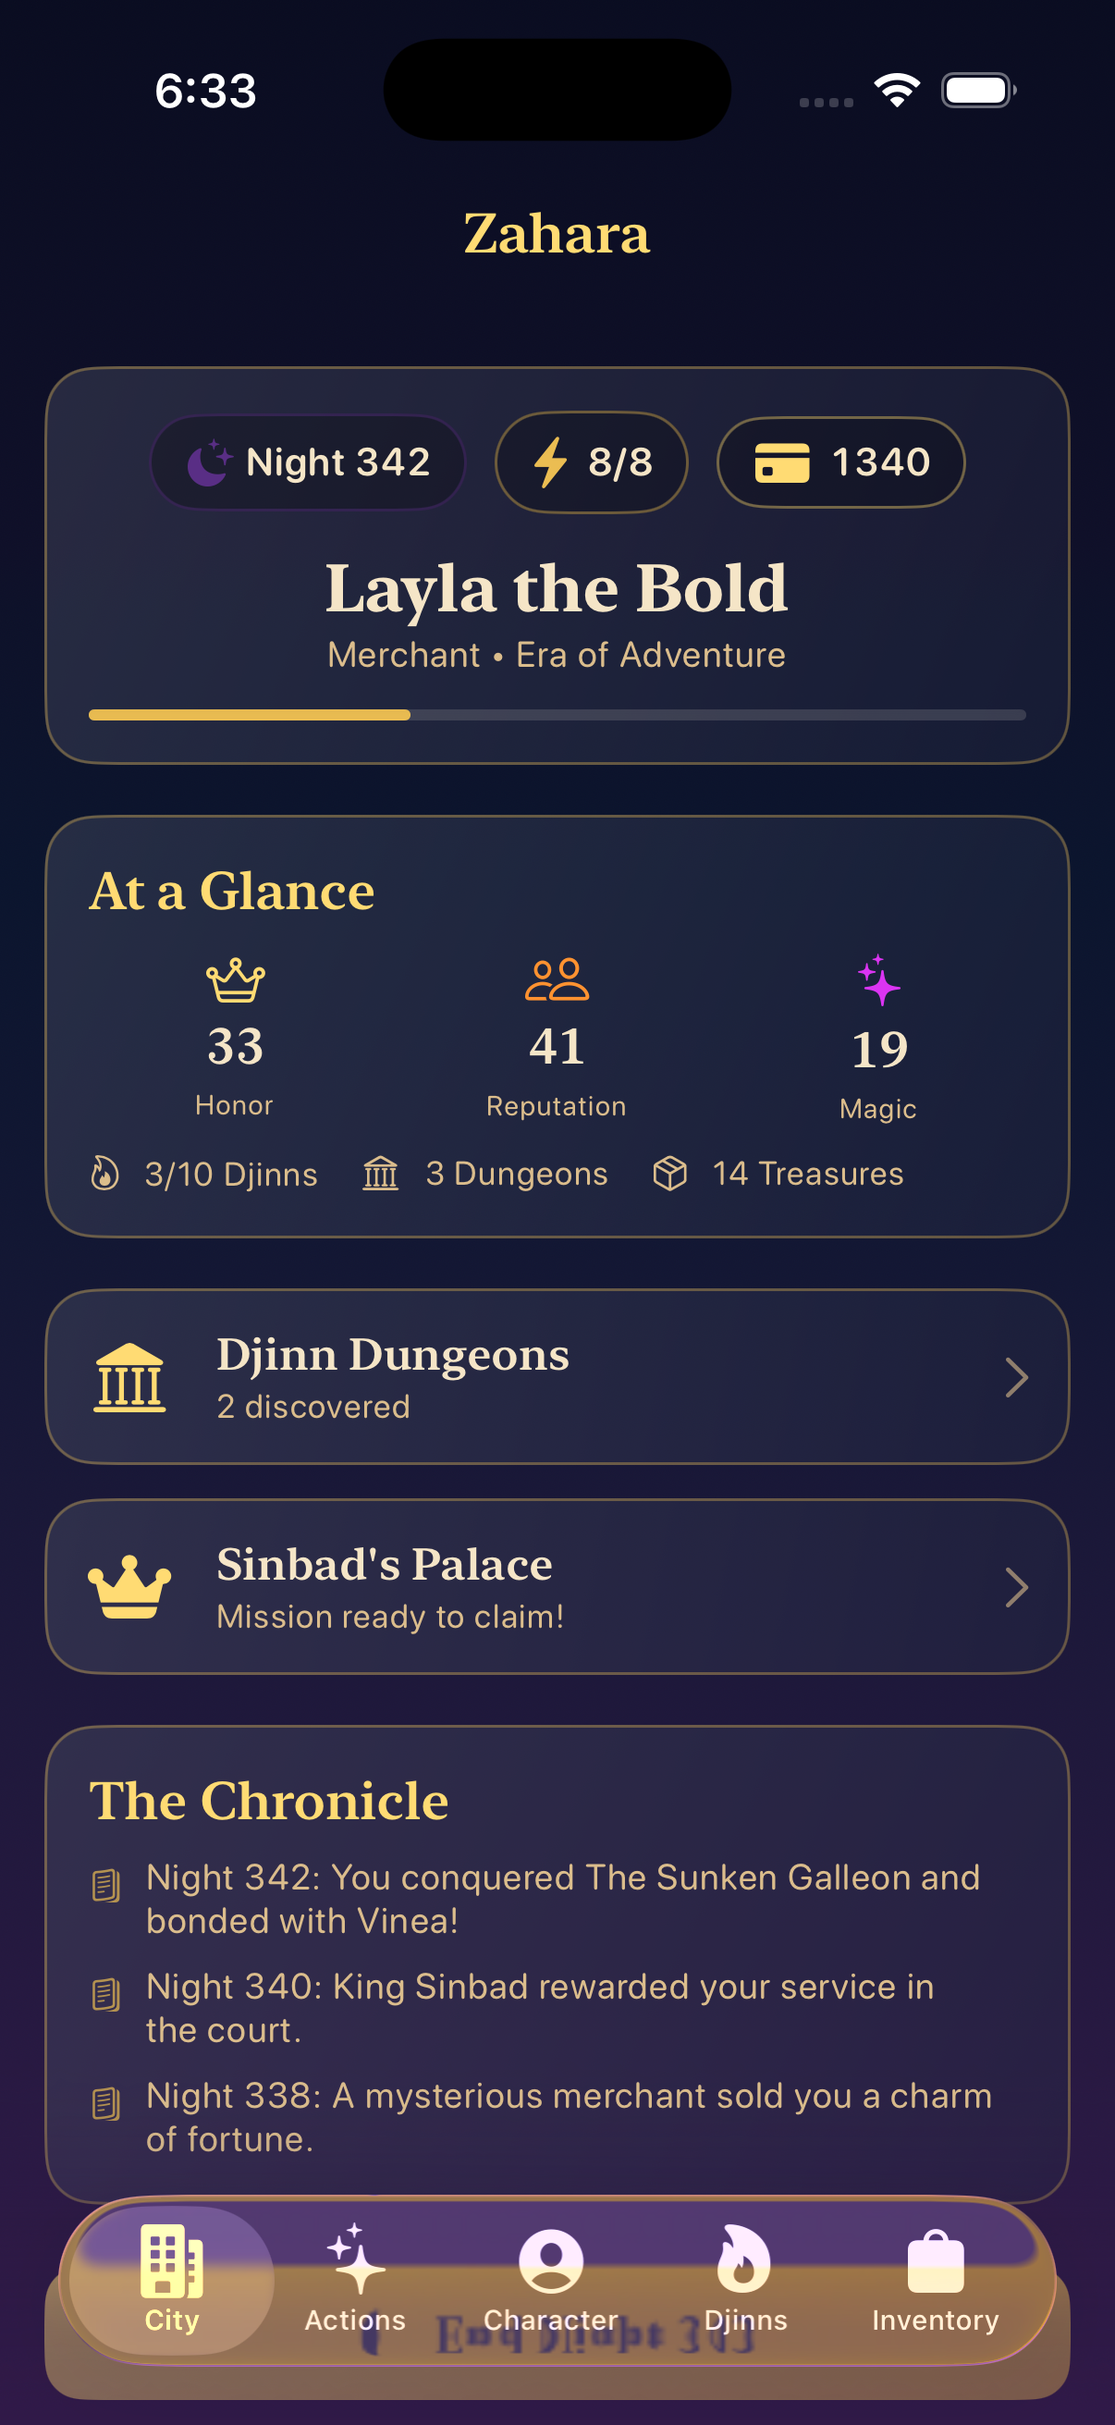
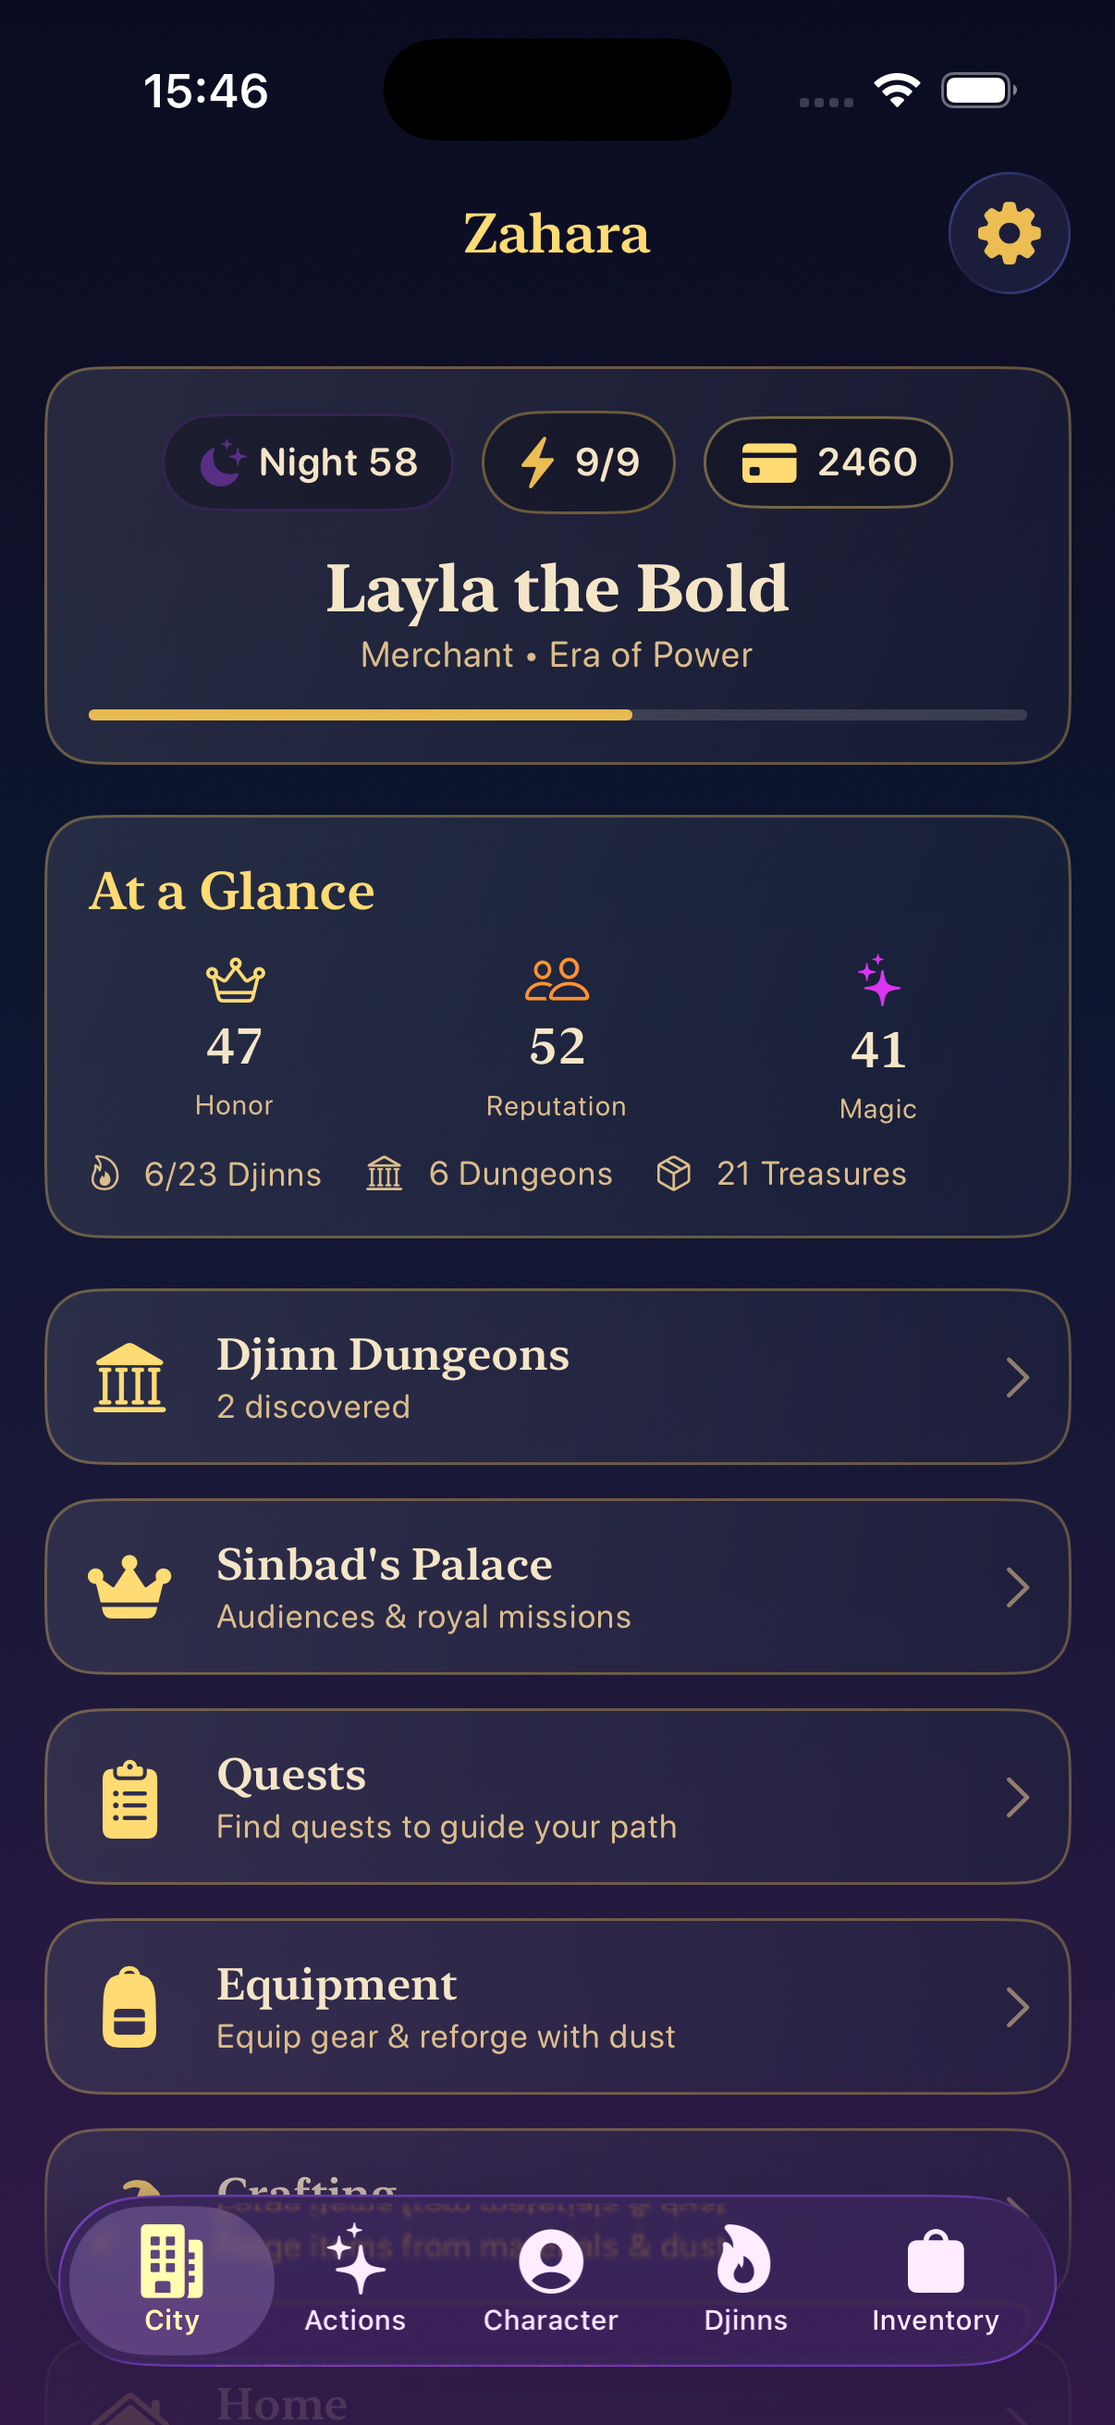
home upgrade - progress locked added more quests and change quests rewarding system fixes several bugs updated readme

diff --git a/NightsOfZahara/Models/Quest.swift b/NightsOfZahara/Models/Quest.swift
@@ -70,21 +70,21 @@ enum QuestCatalogGeneral {
         Quest(id: "sq_first_steps", type: .main,
               name: "First Steps in Zahara",
               description: "Scheherazade urges you to make a name for yourself among the people.",
-              objective: .reachReputation(20), rewardGold: 100, rewardStat: (.wisdom, 2),
+              objective: .reachReputation(20), rewardGold: 60, rewardStat: (.wisdom, 1),
               risk: .none, location: "Zahara Market", npc: "Scheherazade",
               completion: "\"You are becoming known,\" Scheherazade smiles. \"The city listens now.\""),
 
         Quest(id: "sq_lost_caravan", type: .side,
               name: "The Lost Caravan",
               description: "A merchant's caravan vanished in the dunes. Brave a journey and search for clues.",
-              objective: .findTreasures(4), rewardGold: 160, rewardItemID: "brass_ring",
+              objective: .findTreasures(4), rewardGold: 100, rewardItemID: "brass_ring",
               risk: .medium, location: "The Deep Desert", npc: "Faruq the Merchant",
               completion: "You recover the caravan's lost goods. Faruq rewards you handsomely."),
 
         Quest(id: "sq_first_djinn", type: .djinn,
               name: "Echo of the Lamp",
               description: "A whisper from an ancient lamp calls you to bond with your first Djinn.",
-              objective: .bondDjinns(1), rewardGold: 200, rewardStat: (.magic, 3),
+              objective: .bondDjinns(1), rewardGold: 130, rewardStat: (.magic, 2),
               risk: .high, location: "A Hidden Dungeon", npc: "Scheherazade",
               completion: "A Djinn now answers your call. Scheherazade nods with quiet pride."),
 
@@ -247,7 +247,48 @@ enum QuestCatalogGeneral {
               objective: .bondDjinns(4), rewardGold: 500, rewardStat: (.magic, 6),
               risk: .high, location: "The Cave of Wonders", npc: "Aladdin",
               completion: "The Ring Djinn bows to you both. A legend among legends is written.",
-              available: { ($0._meta?.relationship("aladdin") ?? 0) >= 80 })
+              available: { ($0._meta?.relationship("aladdin") ?? 0) >= 80 }),
+
+        // ── Late-game quests (surface only deep into a run) ──
+        Quest(id: "lq_deep_delver", type: .dungeon,
+              name: "Master of the Labyrinths",
+              description: "Idris has charted every known dungeon beneath Zahara. He challenges you to conquer ten and prove yourself their master.",
+              objective: .conquerDungeons(10), rewardGold: 900, rewardStat: (.courage, 6),
+              risk: .high, location: "The Dungeons", npc: "The Magician Idris",
+              completion: "Idris seals his charts. \"Ten labyrinths, ten victories. You are the deep's master now.\"",
+              available: { $0.night >= 50 && $0.completedDungeons.count >= 6 }),
+
+        Quest(id: "lq_djinn_court", type: .djinn,
+              name: "A Court of Djinns",
+              description: "Scheherazade whispers that a soul who binds eight Djinns commands a court of living legends. Prove the old tales true.",
+              objective: .bondDjinns(8), rewardGold: 1000, rewardStat: (.magic, 8),
+              risk: .high, location: "Scheherazade's Tower", npc: "Scheherazade",
+              completion: "Eight Djinns answer to you now. \"The tales were true,\" Scheherazade breathes.",
+              available: { $0.completedDungeons.count >= 6 && ($0._meta?.relationship("scheherazade") ?? 0) >= 20 }),
+
+        Quest(id: "lq_grand_hoard", type: .treasure,
+              name: "The Sultan's Hoard",
+              description: "Rashid swears that a hoard beyond counting waits for one who has already plundered the desert twenty times over.",
+              objective: .findTreasures(24), rewardGold: 800, rewardStat: (.luck, 6),
+              risk: .medium, location: "The Deep Desert", npc: "The Thief Rashid",
+              completion: "Rashid whistles low. \"Never seen a hoard like it. You've outdone the sultans themselves.\"",
+              available: { $0.treasuresFound >= 15 }),
+
+        Quest(id: "lq_hidden_flame", type: .main,
+              name: "Whispers of the Hidden Flame",
+              description: "Scheherazade has read of Al-Mudhib, King of the Djinns, who tests only the worthiest. Deepen your mastery of magic, for his throne answers to no lamp.",
+              objective: .reachStat(.magic, 75), rewardGold: 1200, rewardStat: (.wisdom, 8),
+              risk: .high, location: "Scheherazade's Tower", npc: "Scheherazade",
+              completion: "\"The hidden flame stirs,\" Scheherazade says softly. \"When you are ready, its throne will find you.\"",
+              available: { $0.night >= 60 && $0.completedDungeons.count >= 8 && ($0._meta?.relationship("scheherazade") ?? 0) >= 15 }),
+
+        Quest(id: "lq_kings_right_hand", type: .main,
+              name: "The King's Right Hand",
+              description: "King Sinbad, now your closest confidant, would raise you to rule at his side — if your honor can match the crown itself.",
+              objective: .reachHonor(85), rewardGold: 1500, rewardStat: (.reputation, 8),
+              risk: .low, location: "Sinbad's Palace", npc: "King Sinbad",
+              completion: "Sinbad sets a hand on your shoulder. \"Rule beside me. Zahara could ask for no truer hand.\"",
+              available: { $0.night >= 60 && ($0._meta?.relationship("sinbad") ?? 0) >= 25 })
     ]
 
     static func quest(id: String) -> Quest? { all.first { $0.id == id } }

diff --git a/NightsOfZahara/Models/PalaceQuest.swift b/NightsOfZahara/Models/PalaceQuest.swift
@@ -68,17 +68,17 @@ enum QuestCatalog {
                     title: "A Name Worth Knowing",
                     flavor: "\"Make yourself known in my city,\" says Sinbad. \"A king should hear your name in the markets.\"",
                     objective: .reachReputation(30),
-                    rewardGold: 120, rewardHonor: 5, rewardReputation: 0),
+                    rewardGold: 70, rewardHonor: 3, rewardReputation: 0),
         PalaceQuest(id: "q_treasures",
                     title: "The Royal Collection",
                     flavor: "\"Bring glory to Zahara. Recover treasures worthy of the palace vaults.\"",
                     objective: .findTreasures(6),
-                    rewardGold: 160, rewardHonor: 4, rewardReputation: 3),
+                    rewardGold: 100, rewardHonor: 3, rewardReputation: 2),
         PalaceQuest(id: "q_first_dungeon",
                     title: "Trial of Courage",
                     flavor: "\"I was a sailor before a king,\" Sinbad muses. \"Prove your courage — conquer a Djinn's dungeon.\"",
                     objective: .conquerDungeons(1),
-                    rewardGold: 200, rewardHonor: 8, rewardReputation: 4),
+                    rewardGold: 140, rewardHonor: 6, rewardReputation: 3),
         PalaceQuest(id: "q_gold",
                     title: "The King's Confidence",
                     flavor: "\"A trusted hand must handle wealth wisely. Show me you can amass a fortune.\"",
@@ -98,7 +98,39 @@ enum QuestCatalog {
                     title: "Legend of the Thousand Nights",
                     flavor: "\"Conquer six dungeons and claim their Djinns. Do this, and your legend will outlive us both.\"",
                     objective: .conquerDungeons(6),
-                    rewardGold: 900, rewardHonor: 25, rewardReputation: 20)
+                    rewardGold: 900, rewardHonor: 25, rewardReputation: 20),
+
+        // ── The King's late-game commissions (only stay relevant deep into a run) ──
+        PalaceQuest(id: "q_king_treasury",
+                    title: "The Royal Treasury",
+                    flavor: "\"Zahara's coffers must dwarf any rival kingdom's,\" Sinbad decrees. \"Amass a fortune worthy of a throne.\"",
+                    objective: .amassGold(4000),
+                    rewardGold: 0, rewardHonor: 20, rewardReputation: 18),
+        PalaceQuest(id: "q_king_scourge",
+                    title: "Scourge of the Deep",
+                    flavor: "\"Ten dungeons have swallowed my finest sailors whole. Clear them, and Zahara will sleep without fear.\"",
+                    objective: .conquerDungeons(10),
+                    rewardGold: 1400, rewardHonor: 30, rewardReputation: 22),
+        PalaceQuest(id: "q_king_paragon",
+                    title: "Paragon of the Realm",
+                    flavor: "\"There is no honor left in this city greater than yours to claim. Become its very measure.\"",
+                    objective: .reachHonor(90),
+                    rewardGold: 1000, rewardHonor: 0, rewardReputation: 25),
+        PalaceQuest(id: "q_king_conclave",
+                    title: "The Djinn Conclave",
+                    flavor: "\"Scheherazade tells of a court of Djinns bound to one soul. Bind twelve, and no ruler on earth will be your equal.\"",
+                    objective: .bondDjinns(12),
+                    rewardGold: 2000, rewardHonor: 35, rewardReputation: 30),
+        PalaceQuest(id: "q_king_champion",
+                    title: "Champion of Zahara",
+                    flavor: "\"My kingdom needs a champion whose strength is beyond question. Forge your body into a legend of endurance.\"",
+                    objective: .reachStat(.endurance, 95),
+                    rewardGold: 1200, rewardHonor: 28, rewardReputation: 20),
+        PalaceQuest(id: "q_king_sovereign",
+                    title: "The Sovereign's Equal",
+                    flavor: "\"When your name is spoken in every port from here to the edge of the world, you will have earned your place beside me.\"",
+                    objective: .reachReputation(95),
+                    rewardGold: 2500, rewardHonor: 40, rewardReputation: 0)
     ]
 
     static func quest(id: String) -> PalaceQuest? { all.first { $0.id == id } }

diff --git a/NightsOfZahara/Engine/GameViewModel+Features2.swift b/NightsOfZahara/Engine/GameViewModel+Features2.swift
@@ -120,8 +120,35 @@ extension GameViewModel {
 
     func homeNextCost(_ room: HomeRoom) -> Int { room.cost(toLevel: homeLevel(room) + 1) }
 
+    /// The highest room level unlocked by the current night. Room levels open
+    /// up over time — level 1 from the start, level 2 at night 35, level 3 at
+    /// night 60.
+    func homeLevelCap(forNight night: Int) -> Int {
+        switch night {
+        case ..<35: return 1
+        case ..<60: return 2
+        default:    return 3
+        }
+    }
+
+    /// The night at which a given room level becomes buildable.
+    func homeLevelUnlockNight(_ level: Int) -> Int {
+        switch level {
+        case ...1: return 0
+        case 2:    return 35
+        default:   return 60
+        }
+    }
+
+    /// True when the next level of a room is gated behind a future night.
+    func isHomeUpgradeNightLocked(_ room: HomeRoom) -> Bool {
+        guard let s = state, homeLevel(room) < room.maxLevel else { return false }
+        return homeLevel(room) + 1 > homeLevelCap(forNight: s.night)
+    }
+
     func canUpgradeHome(_ room: HomeRoom) -> Bool {
         guard let s = state, homeLevel(room) < room.maxLevel else { return false }
+        guard homeLevel(room) + 1 <= homeLevelCap(forNight: s.night) else { return false }
         return s.gold >= homeNextCost(room)
     }
 

diff --git a/NightsOfZahara/Views/HomeUpgradeView.swift b/NightsOfZahara/Views/HomeUpgradeView.swift
@@ -52,6 +52,13 @@ struct HomeUpgradeView: View {
             Spacer()
             if maxed {
                 Text("Max").font(Theme.body(12).weight(.bold)).foregroundStyle(Theme.success)
+            } else if game.isHomeUpgradeNightLocked(room) {
+                let unlockNight = game.homeLevelUnlockNight(level + 1)
+                VStack(spacing: 1) {
+                    Image(systemName: "lock.fill").font(.system(size: 12)).foregroundStyle(Theme.sand.opacity(0.7))
+                    Text("Night \(unlockNight)").font(Theme.body(10).weight(.semibold)).foregroundStyle(Theme.sand.opacity(0.7))
+                }
+                .padding(.horizontal, 10).padding(.vertical, 7)
             } else {
                 Button {
                     game.upgradeHome(room)

diff --git a/NightsOfZahara/Views/CraftingView.swift b/NightsOfZahara/Views/CraftingView.swift
@@ -65,8 +65,12 @@ struct CraftingView: View {
                     let have = game.materialCount(mat)
                     reqLine(name: ItemCatalog.item(id: mat)?.name ?? mat, have: have, need: need)
                 }
-                reqLine(name: "Magical Dust", have: s.meta.magicalDust, need: cost.dust)
-                reqLine(name: "Gold", have: s.gold, need: cost.gold)
+                if cost.dust > 0 {
+                    reqLine(name: "Magical Dust", have: s.meta.magicalDust, need: cost.dust)
+                }
+                if cost.gold > 0 {
+                    reqLine(name: "Gold", have: s.gold, need: cost.gold)
+                }
             }
             let owned = game.alreadyCrafted(recipe)
             Button {

diff --git a/README.md b/README.md
@@ -26,6 +26,24 @@ Your goal: brave journeys, uncover hidden **Djinn dungeons**, conquer them to bo
 <img src="Screenshots/city.png" width="260" alt="City of Zahara" />
 </div>
 
+<div align="center">
+<img src="Screenshots/actions.png" width="200" alt="Night actions" />
+&nbsp;
+<img src="Screenshots/character.png" width="200" alt="Character sheet" />
+&nbsp;
+<img src="Screenshots/djinns.png" width="200" alt="Djinn collection" />
+</div>
+
+<div align="center">
+<img src="Screenshots/inventory.png" width="200" alt="Inventory" />
+&nbsp;
+<img src="Screenshots/night-summary.png" width="200" alt="Night summary" />
+</div>
+
+<div align="center">
+<sub>Night actions · Character sheet · Djinn collection · Inventory · Night summary</sub>
+</div>
+
 ---
 
 ## 🎮 Features
@@ -36,7 +54,7 @@ Your goal: brave journeys, uncover hidden **Djinn dungeons**, conquer them to bo
 - **13 nightly actions** — Work, Study, Train, Prowl the Alleys (Speed & Cunning), Journey, Search for Dungeon, Enter Palace, Build Connections, Search for Treasure, Rest, Shop, Upgrade, Eat — each with a clear energy cost and an action-preview card.
 - **22 Djinns & 22 dungeons** — every Djinn has its own themed, room-by-room dungeon with related monsters and a named boss, plus a legendary **23rd figure**, Al-Mudhib the King of the Djinns, with a secret endgame dungeon. Dungeon rooms succeed on a **percentage chance** based on how far your stat sits from the requirement (15–85%), and dungeons above Hard demand notably higher stats.
 - **Interactive dungeon crawls** — advance through monsters, puzzles, traps, treasure and a boss to the Djinn chamber. Every bonded Djinn grants a **signature ability** that can clear a matching room outright (Amon's Flame, Terror Gaze, Blink Step, Warflame Command, Verdict of Truth…).
-- **King Sinbad's palace & Court of Justice** — a royal quest board with escalating missions, plus a separate Court of Justice where you preside over disputes for Honor, Reputation or Wisdom.
+- **King Sinbad's palace & Court of Justice** — a royal quest board with escalating missions that grow from humble errands into grand late-game commissions (bond twelve Djinns, conquer ten dungeons, become the realm's paragon of honor), plus a separate Court of Justice where you preside over disputes for Honor, Reputation or Wisdom.
 - **Major characters** — Ali Baba, Jasmine and Aladdin: recurring allies with their own relationship arcs, quests, dialogue and bonuses (see below).
 - **Events & choices** — mysterious merchants, sandstorms, palace invitations, whispering lamps, character encounters and branching **story choices** whose consequences persist to the ending.
 - **Economy & items** — a bazaar, consumable provisions (including **Super Food** that heals 3 injuries), gear that boosts stats (heavy gear can cost you Speed), and gold-and-energy stat upgrades. Your **Wealth** stat reflects both your gold and the rarity of the items you own.
@@ -62,7 +80,7 @@ Your goal: brave journeys, uncover hidden **Djinn dungeons**, conquer them to bo
 - **Detailed monsters** — every monster/boss room shows a full stat card (level, HP, attack, defense, magic, special, weakness, reward).
 - **Action previews** — confirm each action with a card showing energy, rewards, risks, helpful stats and estimated odds.
 - **Multiple endings** — named endings (King's Champion, Merchant Prince, Master of Djinns, Protector of Zahara, **Sovereign of the Djinns**…) chosen from your stats, Djinns, artifacts, relationships and title.
-- **Quest log** — main, side, dungeon, role, Djinn, treasure and character quests, plus quests unlocked by faction/relationship level-ups.
+- **Quest log** — main, side, dungeon, role, Djinn, treasure and character quests, plus quests unlocked by faction/relationship level-ups and **late-game quests** that surface only as your legend deepens (master ten labyrinths, gather a court of eight Djinns, and follow Scheherazade's whispers toward the Hidden Flame).
 - **Crafting** — gather materials from dungeons/journeys and forge charms, rings and potions (each craftable item may exist only once at a time). A higher **Crafting Room** unlocks more recipes and higher-tier (legendary/mythic) gear.
 - **Home upgrades** — build eleven rooms (Resting → +max energy, Work → +work gold, Library, Training → +Endurance from training, Hideout → Speed & Cunning from Prowl, Crafting, Treasure…) for lasting passive bonuses. Finish every room to earn the *Lord of the Estate* title and a gift.
 - **Companions** — recruit NPC allies whose talents boost combat, treasure, dungeon safety, shop prices and more; some major characters join once your bond runs deep.
